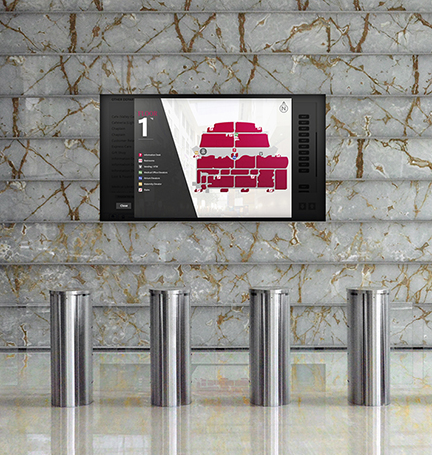
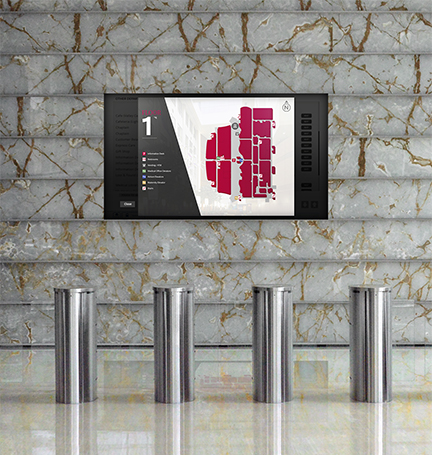
more images

diff --git a/wayfinding2.html b/wayfinding2.html
@@ -1,0 +1,187 @@
+<!DOCTYPE html>
+<html>
+  <head>
+<link rel="shortcut icon" type="image/x-icon" href="favicon.ico">
+ <link rel="apple-touch-icon" sizes="180x180" href="/apple-touch-icon.png">
+<link rel="icon" type="image/png" sizes="32x32" href="/favicon-32x32.png">
+<link rel="icon" type="image/png" sizes="16x16" href="/favicon-16x16.png">
+<link rel="manifest" href="/site.webmanifest">
+<link rel="mask-icon" href="/safari-pinned-tab.svg" color="#1f606f">
+<meta name="msapplication-TileColor" content="#00aba9">
+<meta name="theme-color" content="#ffffff">
+    <link href="https://fonts.googleapis.com/css?family=Merriweather:300,300i,400,400i,700,700i,900,900i" rel="stylesheet">
+    <title> Melissa Mision </title>
+    <meta http-equiv="Content-Type" content="text/html;charset=UTF-8">
+    <meta name="viewport" content="width=device-width, minimum-scale=1.0">
+    <link rel="stylesheet" type="text/css" href="style.css" />
+    <script src="scripts.js"></script>
+  </head>
+  <body>
+    <style>
+    body {
+    margin: 0px;
+    border: 0px;
+  }
+  </style>
+ <div id="header">
+    <div id="space">
+      <div id="navbar">
+         <a href="index.html" id="linkref">HOME</a>
+         <a href="Work.html" id="linkref">WORK</a>
+         <a href="About.html" id="linkref">ABOUT</a>
+            </div>
+                <div id="logo2">
+      </div>
+</div>
+</div>
+</center>
+
+<!-- Slideshow container -->
+<div class="slideshow-container">
+
+  <!-- Full-width images with number and caption text -->
+  <div class="mySlides fade">
+    <div class="numbertext"></div>
+    <img src="FrontEnd/wayfinding2/Fp0.jpg" style="
+    width: 134%;
+    height: 80%;
+    transform: scale(.75);
+    display: inline-block;
+    margin-left: -12%;
+    margin-top: -11%;">
+
+    <div class="text">Meridian Wayfinding</div>
+    <div class="vertStuff"></div>
+    <div class="textSummary">New wayfinding designs/concepts for Meridian's wayfinding schematics.</div>
+  </div>
+
+  <div class="mySlides fade">
+    <div class="numbertext"></div>
+    <img src="FrontEnd/wayfinding2/Fp1.jpg" style="
+    width: 134%;
+    height: 80%;
+    transform: scale(.75);
+    display: inline-block;
+    margin-left: -12%;
+    margin-top: -11%;">
+
+
+    <div class="text">Meridian Wayfinding</div>
+    <div class="vertStuff"></div>
+    <div class="textSummary">New wayfinding designs/concepts for Meridian's wayfinding schematics.</div>
+  </div>
+
+  <div class="mySlides fade">
+    <div class="numbertext"></div>
+    <img src="FrontEnd/wayfinding2/Fp2.jpg" style="
+    width: 134%;
+    height: 80%;
+    transform: scale(.75);
+    display: inline-block;
+    margin-left: -12%;
+    margin-top: -11%;">
+
+
+    <div class="text">Meridian Wayfinding</div>
+    <div class="vertStuff"></div>
+    <div class="textSummary">New wayfinding designs/concepts for Meridian's wayfinding schematics.</div>
+  </div>
+
+  <div class="mySlides fade">
+    <div class="numbertext"></div>
+    <img src="FrontEnd/wayfinding2/Fp3.jpg" style="
+    width: 134%;
+    height: 80%;
+    transform: scale(.75);
+    display: inline-block;
+    margin-left: -12%;
+    margin-top: -11%;">
+
+    <div class="text">Meridian Wayfinding</div>
+    <div class="vertStuff"></div>
+    <div class="textSummary">New wayfinding designs/concepts for Meridian's wayfinding schematics.</div>
+  </div>
+
+  <div class="mySlides fade">
+    <div class="numbertext"></div>
+    <img src="FrontEnd/wayfinding2/Fp4.jpg" style="
+    width: 134%;
+    height: 80%;
+    transform: scale(.75);
+    display: inline-block;
+    margin-left: -12%;
+    margin-top: -11%;">
+
+     
+    <div class="text">Meridian Wayfinding</div>
+    <div class="vertStuff"></div>
+    <div class="textSummary">New wayfinding designs/concepts for Meridian's wayfinding schematics.</div>
+  </div>
+
+    <div class="mySlides fade">
+    <div class="numbertext"></div>
+    <img src="FrontEnd/wayfinding2/Fp5.jpg" style="
+    width: 134%;
+    height: 80%;
+    transform: scale(.75);
+    display: inline-block;
+    margin-left: -12%;
+    margin-top: -11%;">
+
+    <div class="text">Meridian Wayfinding</div>
+    <div class="vertStuff"></div>
+    <div class="textSummary">New wayfinding designs/concepts for Meridian's wayfinding schematics.</div>
+  </div>
+
+ 
+
+
+  <!-- Next and previous buttons -->
+  <a class="prev" onclick="plusSlides(-1)">&#10094;</a>
+  <a class="next" onclick="plusSlides(1)">&#10095;</a>
+</div>
+<br>
+
+<!-- The dots/circles -->
+<div style="text-align:center">
+  <span class="dot" onclick="currentSlide(1)"></span> 
+  <span class="dot" onclick="currentSlide(2)"></span> 
+  <span class="dot" onclick="currentSlide(3)"></span> 
+</div>
+<div class="footer">
+  <a href="graphicDesign.html" id="linkref2">BACK TO TOP</a>
+</div>
+
+<script>
+var slideIndex = 1;
+showSlides(slideIndex);
+
+// Next/previous controls
+function plusSlides(n) {
+  showSlides(slideIndex += n);
+}
+
+// Thumbnail image controls
+function currentSlide(n) {
+  showSlides(slideIndex = n);
+}
+
+function showSlides(n) {
+  var i;
+  var slides = document.getElementsByClassName("mySlides");
+  var dots = document.getElementsByClassName("dot");
+  if (n > slides.length) {slideIndex = 1} 
+  if (n < 1) {slideIndex = slides.length}
+  for (i = 0; i < slides.length; i++) {
+      slides[i].style.display = "none"; 
+  }
+  for (i = 0; i < dots.length; i++) {
+      dots[i].className = dots[i].className.replace(" active", "");
+  }
+  slides[slideIndex-1].style.display = "block"; 
+  dots[slideIndex-1].className += " active";
+}
+</script>
+
+  </body>
+</html>

diff --git a/frontEnd.html b/frontEnd.html
@@ -52,7 +52,7 @@
 </div>
   <div id="bonfire"><img src="FrontEnd/Mockup/wayfindingThumb2.jpg" alt="wayfinding2" width="100%" height="100%" usemap="#bonfire">
     <map name="bonfire">
-    <area shape="rect" coords="0,0,432,455" alt="Computer" href="bonfire.html">
+    <area shape="rect" coords="0,0,432,455" alt="Computer" href="wayfinding2.html">
 </map>
 </div>
 </div>
